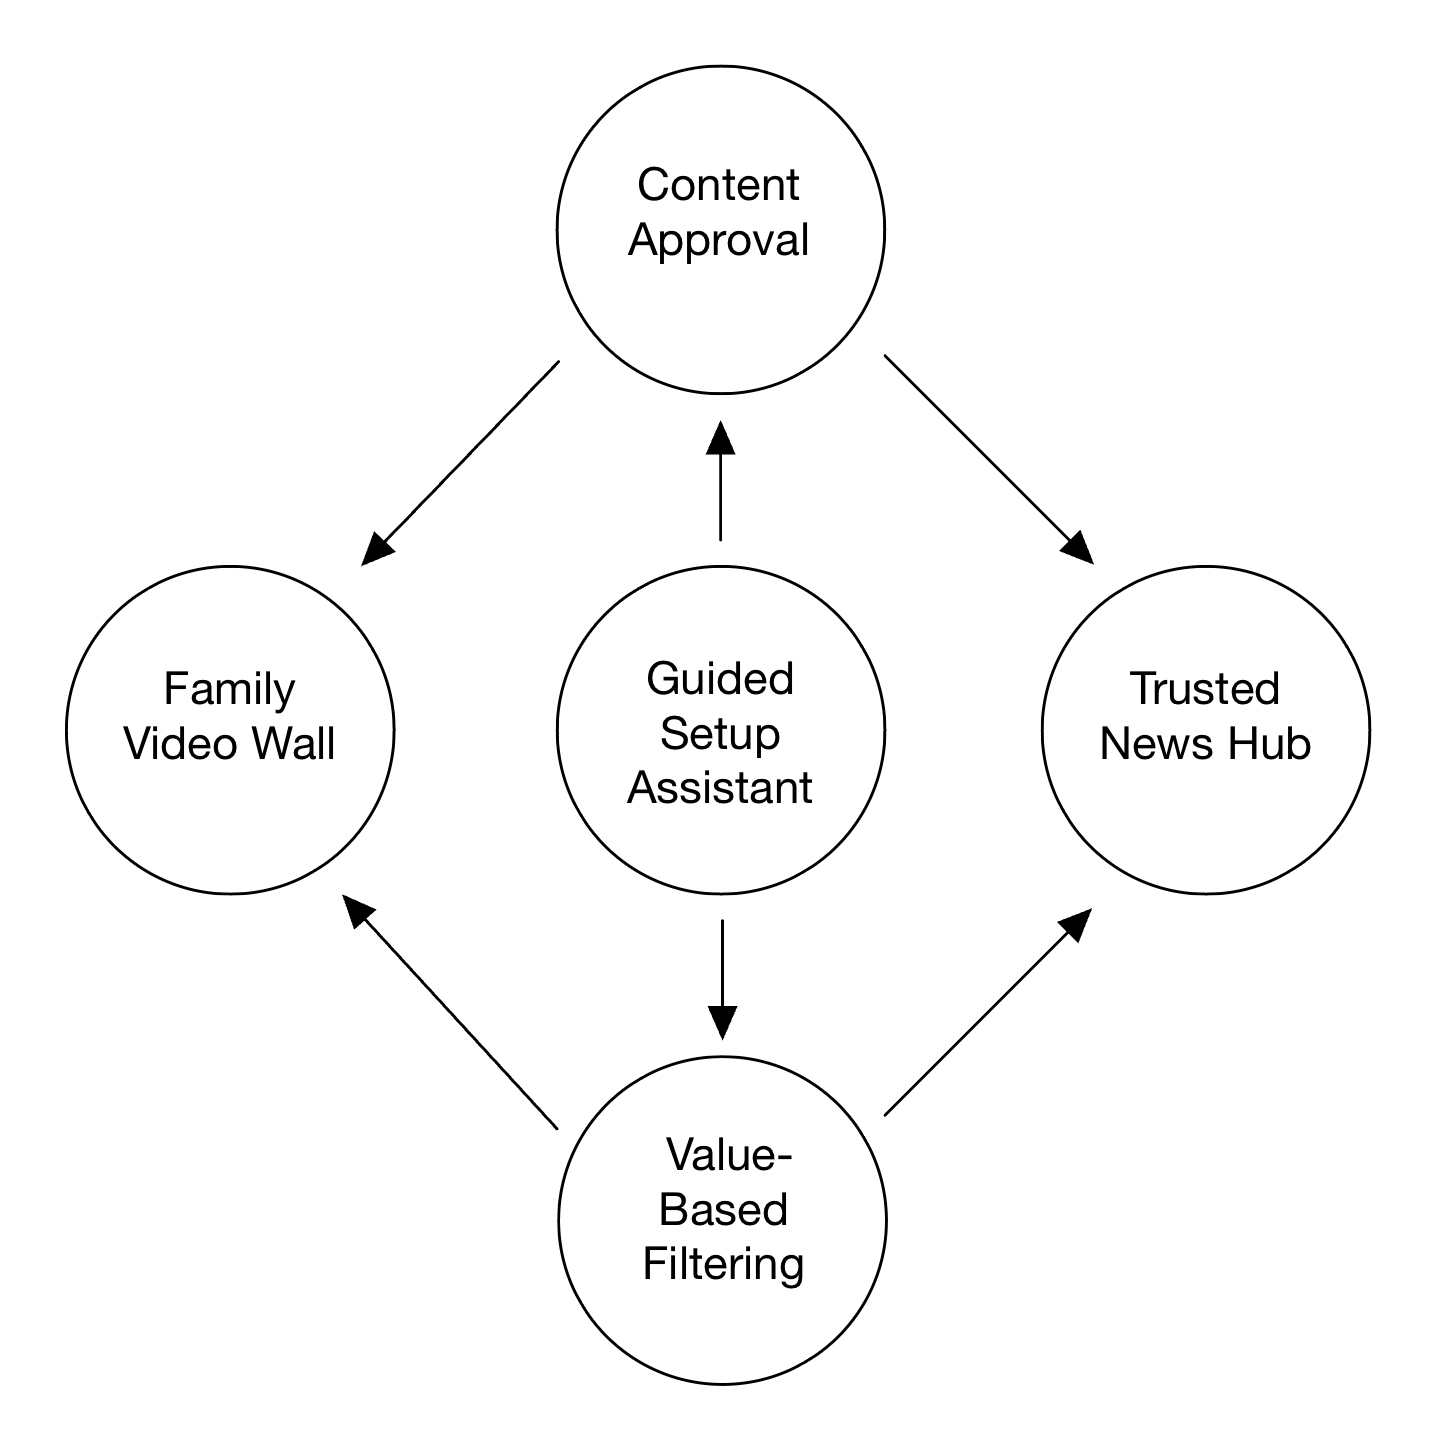
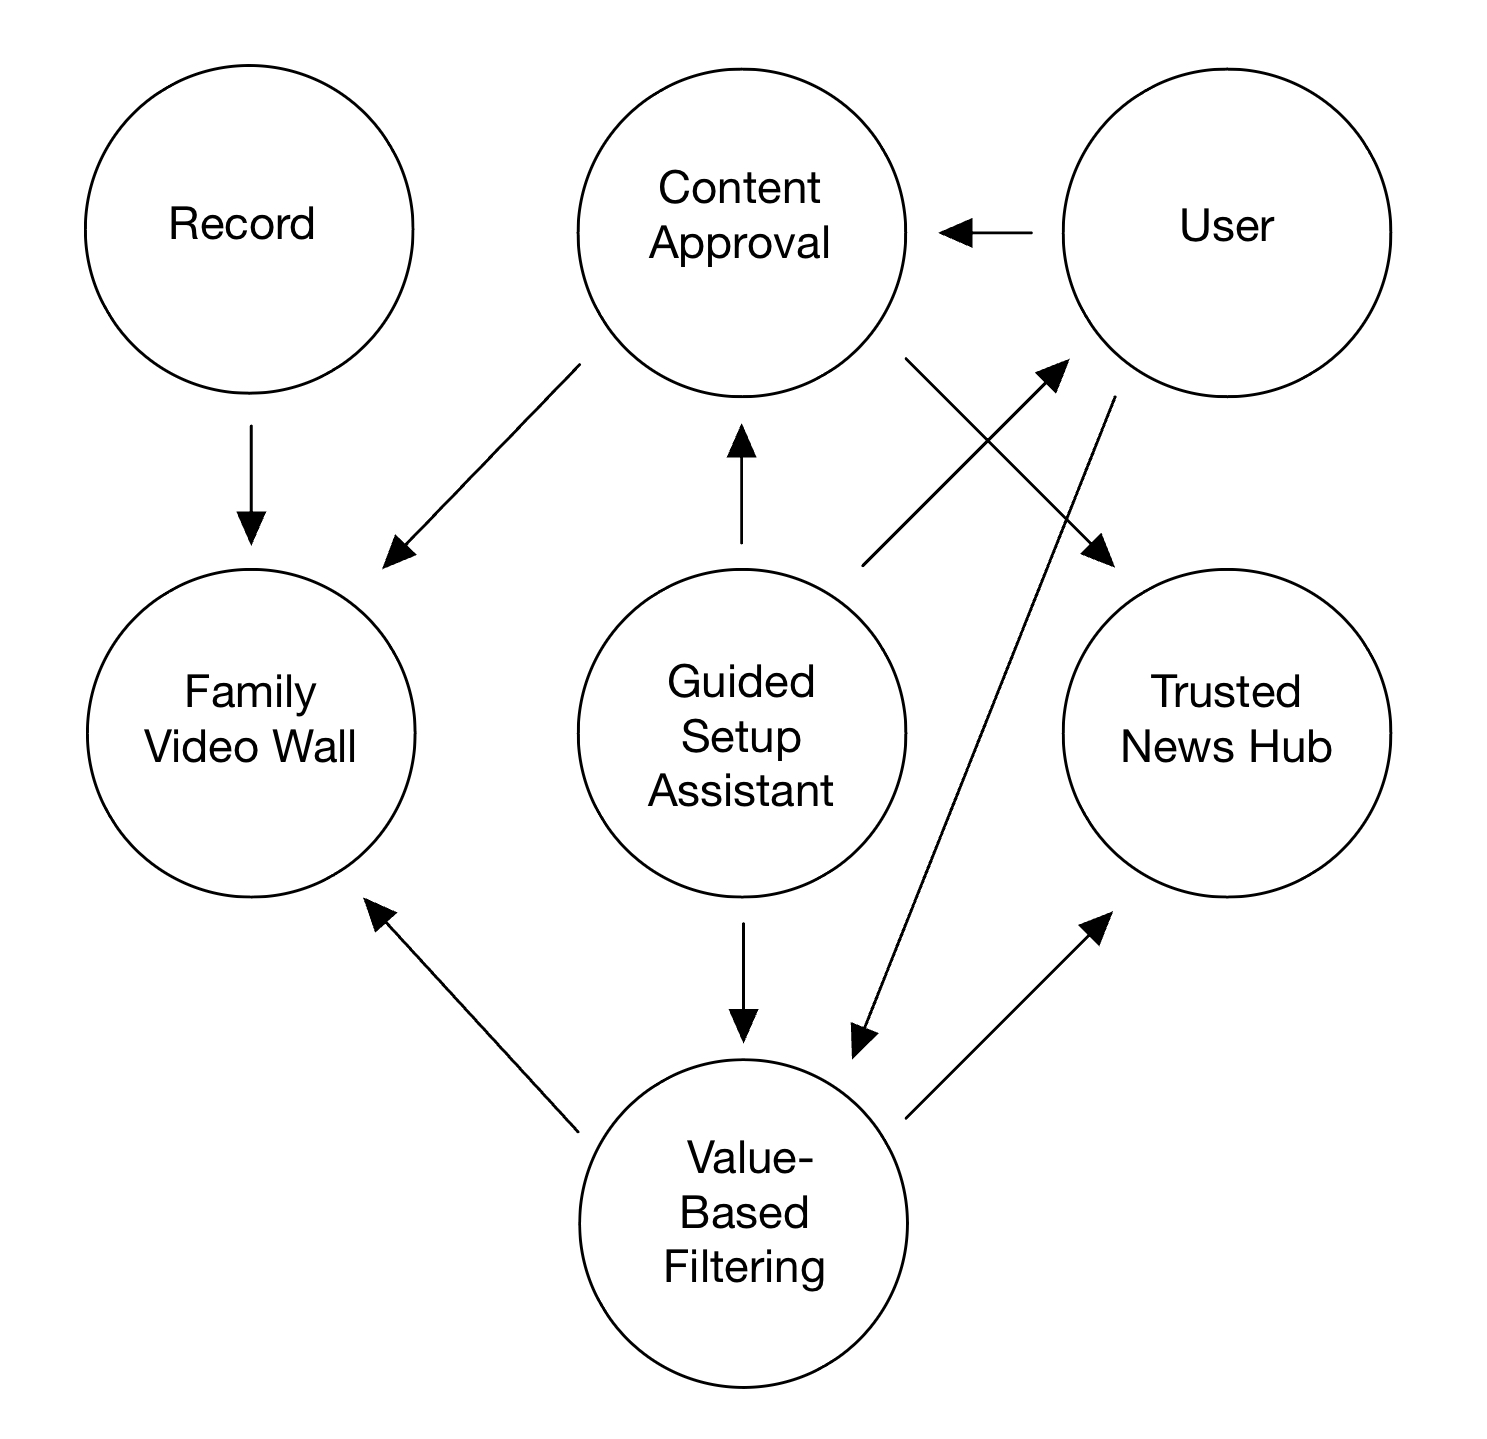
wireframe added

diff --git a/docs/assignments/assignment3.md b/docs/assignments/assignment3.md
@@ -10,6 +10,60 @@ Our audience includes individuals who seek a more intentional and personalized e
 
 ## Concepts
 
+# User
+- Purpose: Represent individuals who interact with the app, allowing them to manage their profiles, preferences, and interactions within the family environment.
+- Principle:
+A user can create a profile, manage their preferences, and interact with other users.
+The actions taken by the user will reflect their state and preferences in the app.
+- State:
+    - registered: set User
+    - username, age: registered -> one String
+    - preferences: registered -> set String
+    - connectedUsers: registered -> set User
+- Actions:
+    - register (username: String, age: int, out user: User):
+        - user not in registered
+        - registered += user
+        - user.username := username
+        - user.age := age
+    - updateProfile (user: User, preferences: set String):
+        - user in registered
+        - user.preferences := preferences
+
+# Record
+- Purpose: Enable users to create and manage audio or video recordings within the app.
+- Principle: After a user initiates a recording, they can capture audio or video, save it, and manage it later.
+- State:
+    - activeRecordings: set Recording
+    - content: activeRecordings -> one Media (audio/video)
+    - author: activeRecordings -> one User
+    - timestamp: activeRecordings -> one Date
+    - status: activeRecordings -> one Status (e.g., recording, paused, stopped)
+- Actions:
+    - start (out recording: Recording)
+        - no recording in activeRecordings
+        - activeRecordings += recording
+        - recording.author := currentUser
+        - recording.timestamp := now
+        - recording.status := recording
+    - pause (recording: Recording):
+        - recording in activeRecordings and recording.status = recording
+        - recording.status := paused
+    - resume (recording: Recording):
+        - recording in activeRecordings and recording.status = paused
+        - recording.status := recording
+    - stop (recording: Recording, out content: Media):
+        - recording in activeRecordings and (recording.status = recording or recording.status = paused)
+        - content := recording.content
+        - activeRecordings -= recording
+        - recording.status := stopped
+    - delete (recording: Recording):
+        - recording in activeRecordings and recording.author = currentUser
+        - activeRecordings -= recording
+    - share (recording: Recording, user: UserT):
+        - recording in activeRecordings
+        - send recording to user
+
 # Family Video Wall 
 - Purpose: Allows users to share private video messages with family members, fostering close connections without public exposure.
 - Operational Principle: Users record and post short video messages that are visible only to a defined group (e.g., family). Family members can reply with video messages, maintaining a private conversation space.
@@ -68,6 +122,14 @@ Our audience includes individuals who seek a more intentional and personalized e
 
 # Dependecy Diagram
 ![Dep Diagram](../../assets/images/A3/DepDiagram.jpeg)
+
+## WireFrame: User, Record, and Family Video Wall
+https://www.figma.com/design/pYQeRaFrxi6DQp8NDOYTHt/A3?node-id=0-1&t=qlH0TvsB00ubP7oh-1
+![WireFrame](../../assets/images/A3/WireFrame.png)
+
+Comment:
+While constructing the wireframes and their flows, I realized that some of my concepts couldn't be expressed properly. Thus, I added in the "User" and "Recording" concepts into my Concepts list. I hadn't included them originally because I did not think they were "unique" enough, but realized that they were quite critical to the platform's design and would make more sense on wireframe.
+P.S. this is also why those two concepts are written a bit different than the others, hope that's fine!
 
 ## Design Tradeoffs
 1. Content Approval Visibility
